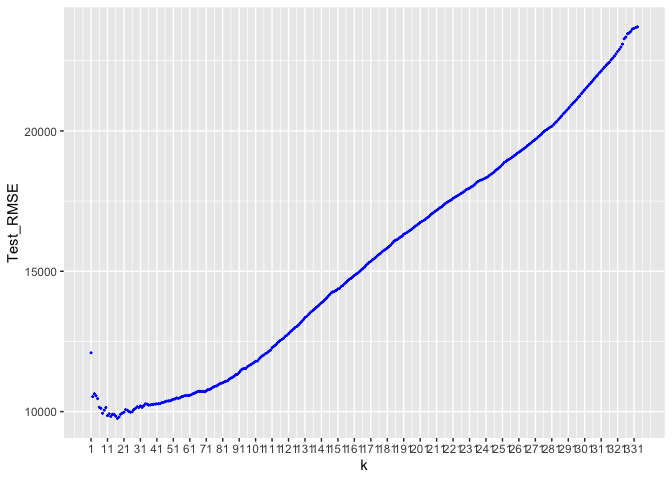
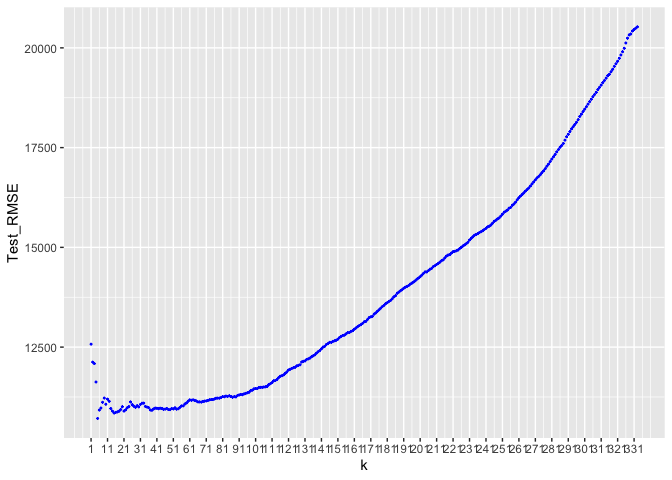
no message

diff --git a/DataMining_HW1_WeiZhou copy.md b/DataMining_HW1_WeiZhou copy.md
@@ -259,7 +259,7 @@ highest average delay time amount.
 
     k = c(1:333)
 
-Define KNN function for different k
+*Define KNN function for different k*
 
     #knn1 = knnreg(price ~ mileage, data=sclass350_train, k=1)
     #rmse(knn1, sclass350_test)
@@ -286,14 +286,14 @@ Define KNN function for different k
     best_k = k[which.min(knn_test_rmse)]
     best_k
 
-    ## [1] 17
+    ## [1] 5
 
 *Find overfitting, underfitting, and “best” k*
 
     fit_status = ifelse(k < best_k, "Over", ifelse(k == best_k, "Best", "Under"))
     best_k
 
-    ## [1] 17
+    ## [1] 5
 
 *Summarize results*
 
@@ -318,7 +318,7 @@ Define KNN function for different k
     knnop1 = knnreg(price ~ mileage, data=sclass350_train, k=best_k)
     rmse(knnop1, sclass350_test)
 
-    ## [1] 9757.045
+    ## [1] 10712.46
 
     sclass350_test = sclass350_test %>%
       mutate(s350_pred = predict(knnop1, sclass350_test))
@@ -377,14 +377,14 @@ Define KNN function for different k
     best_k = k[which.min(knn_test_rmse)]
     best_k
 
-    ## [1] 7
+    ## [1] 13
 
 *Find overfitting, underfitting, and “best” k*
 
     fit_status = ifelse(k < best_k, "Over", ifelse(k == best_k, "Best", "Under"))
     best_k
 
-    ## [1] 7
+    ## [1] 13
 
 *Summarize results*
 
@@ -409,7 +409,7 @@ Define KNN function for different k
     knnop2 = knnreg(price ~ mileage, data=sclass65_train, k=best_k)
     modelr::rmse(knnop2, sclass65_test)
 
-    ## [1] 20071.36
+    ## [1] 26207.37
 
     sclass65_test = sclass65_test %>%
       mutate(s65_pred = predict(knnop2, sclass65_test))
@@ -429,15 +429,19 @@ Define KNN function for different k
 Since I randomly split the training set and test set, every time I get
 different k value, for both trim.
 
-However, the trim of 350 might have a larger optimal k, because the
-total sample size is bigger than trim 65 AMG. When the sample size is
-smaller, we need a relatively smaller optimal. In that case, there will
-be more error.
+However, the trim of 65AMG tend to have a larger optimal k, because its
+sample size is smaller than trim 350. When the sample size is smaller,
+there are less points in a same region, and thus we’ll get higher bias
+and lower variance. In order to reduce the bias, we need a larger
+optimal k to get more information.
 
-In addition, we also need to consider the balance of the data. For
-example, when more data is on one side, and less data is on the other
-side, it might generate a different conclusion, like what we see in the
-situation of random sampling process.
+In addition, we also need to consider other facts as well, such as the
+balance of the data. For example, when more data is on one side, and
+less data is on the other side, it might generate a different
+conclusion, like what we see in the situation of random sampling
+process.
 
 In sum, we don’t have a exact answer to determine which optimal k is
-larger. It depends on many facts, and the answer varies accordingly.
+larger. It depends on many facts, and the answer varies accordingly. But
+if we only consider about the sample size and bias, we’ll say samples
+with smaller size have larger optimal k.
